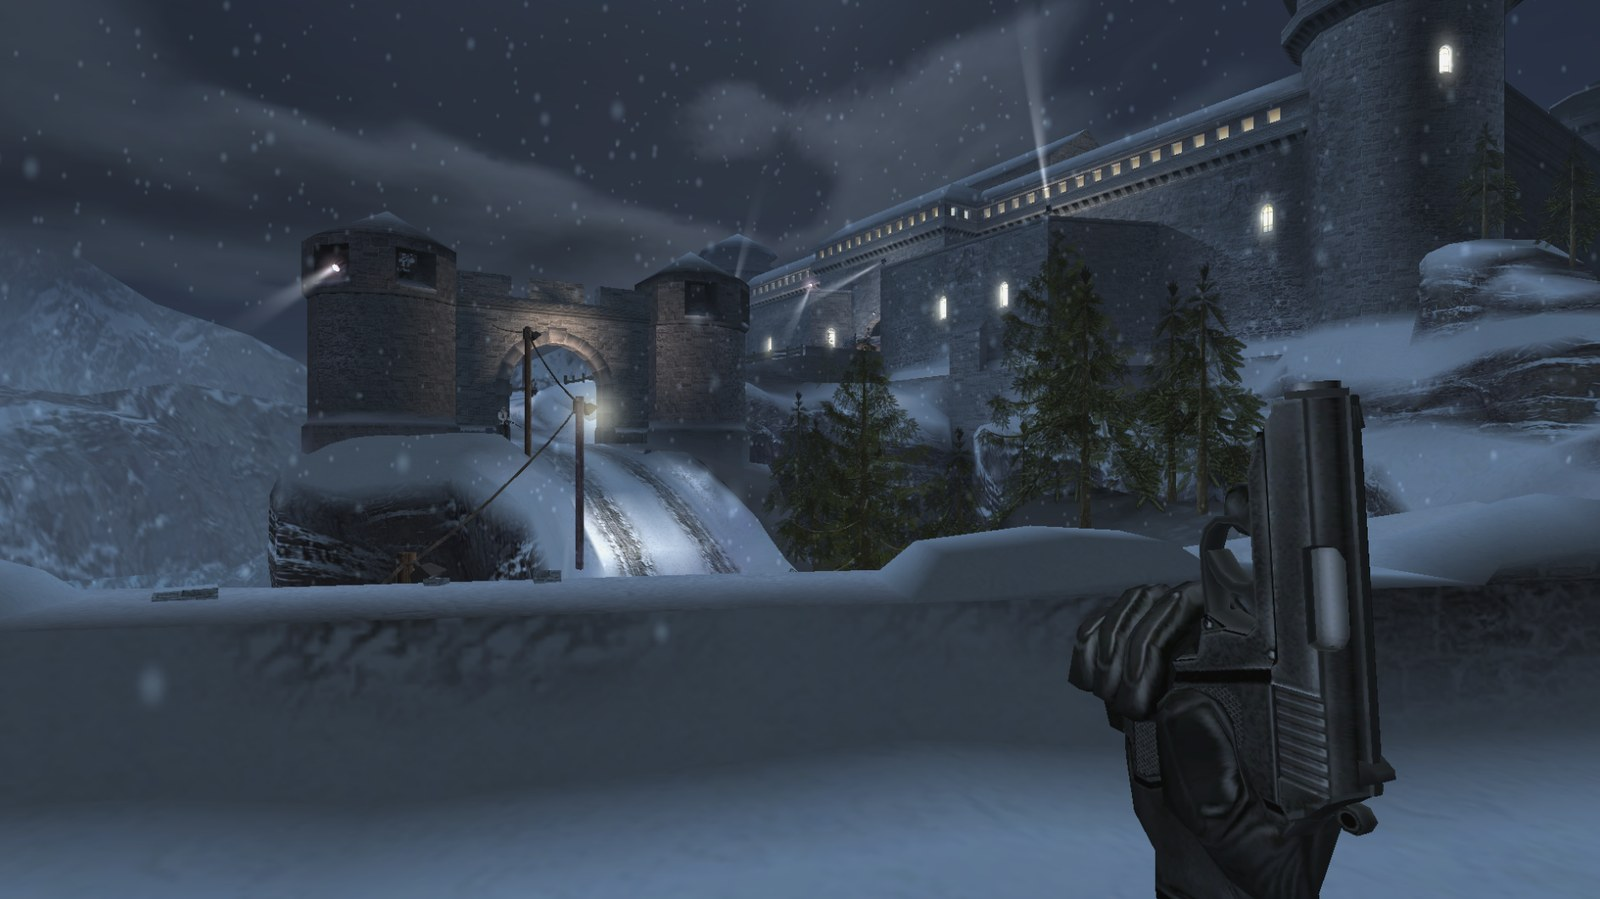
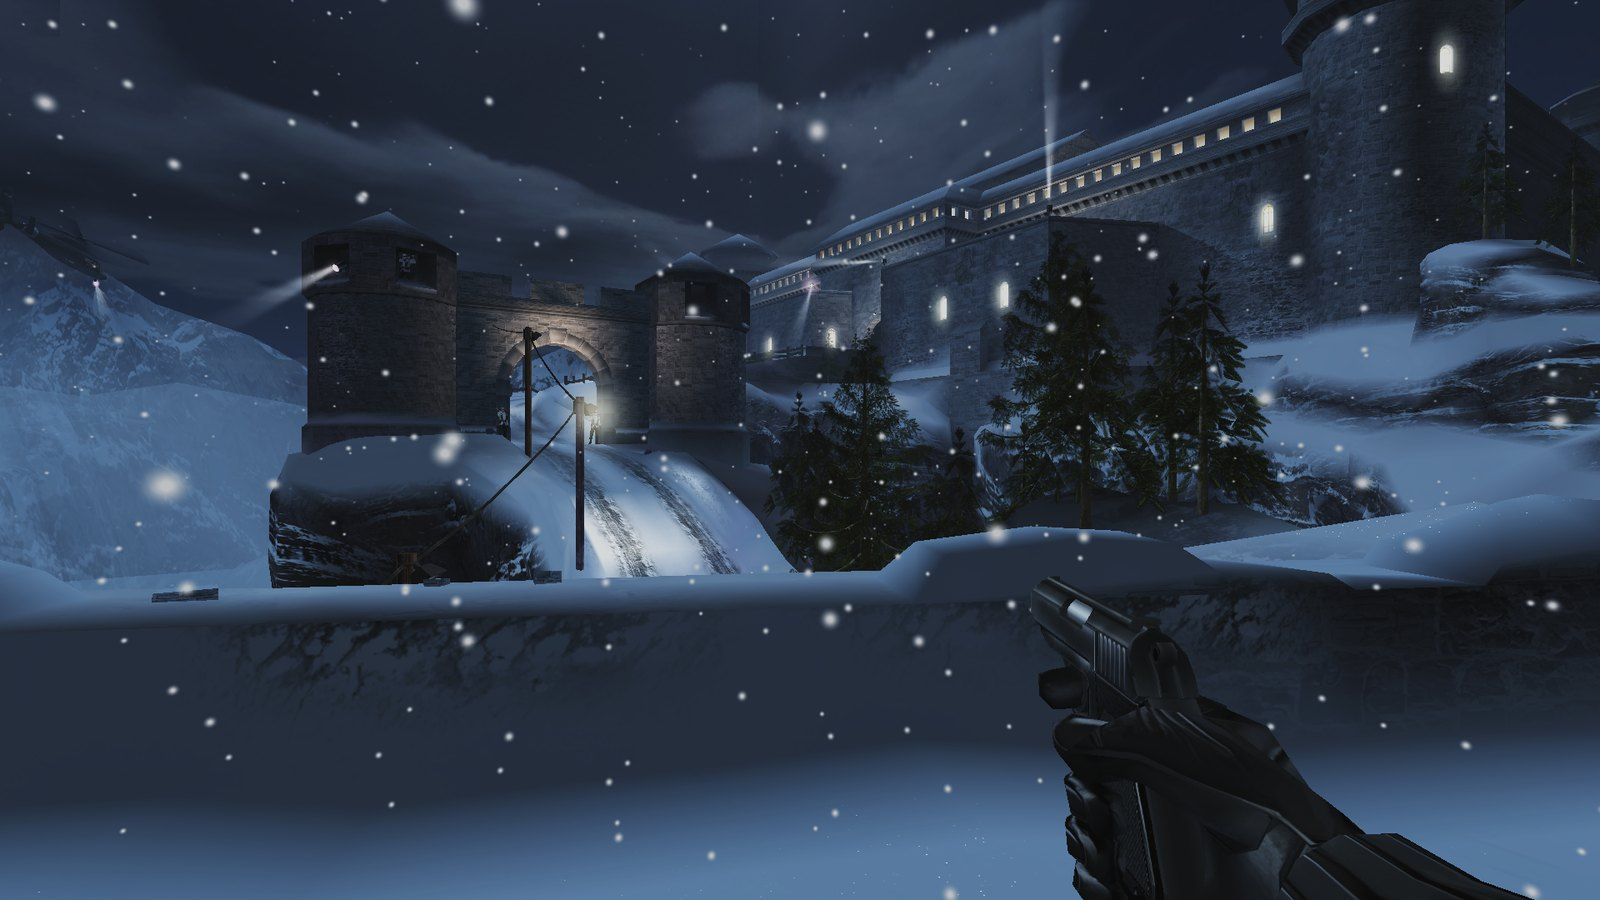
README: new screenshots, indoor level and co-op
Outdoor (The Exchange) and indoor (garage) Original/Remastered comparisons,
a split-screen co-op picture, and story co-op in the feature list.

diff --git a/README.md b/README.md
@@ -14,10 +14,19 @@ packs, LAN multiplayer and more PC controls, all chosen in the game's own menus.
 Noir. Same build; only the Graphics menu changed.*
 
 <table>
-<tr><th>Original (no visual changes)</th><th>Remastered (Enhanced style, ray traced lighting and effects)</th></tr>
-<tr><td><img src="docs/images/exchange_original.jpg" alt="Original"></td>
-<td><img src="docs/images/exchange_remastered.jpg" alt="Remastered"></td></tr>
+<tr><th>Original (no visual changes)</th><th>Remastered (Enhanced style, ray traced lighting, HDR tone mapping)</th></tr>
+<tr><td><img src="docs/images/exchange_original.jpg" alt="The Exchange, Original"></td>
+<td><img src="docs/images/exchange_remastered.jpg" alt="The Exchange, Remastered"></td></tr>
+<tr><td><img src="docs/images/garage_original.jpg" alt="Indoor garage, Original"></td>
+<td><img src="docs/images/garage_remastered.jpg" alt="Indoor garage, Remastered"></td></tr>
 </table>
+
+*Outdoors (The Exchange, at night in falling snow) and indoors (a garage level), from where each mission starts.*
+
+![Split-screen story co-op in The Exchange](docs/images/coop_split.jpg)
+
+*Story co-op in split screen: player 2 (on the second controller) in player 1's view, with the multiplayer's
+animations and a gun in hand.*
 
 > [!NOTE]
 > Like the original project, this fork contains **no game files**, and no textures made from them. You build and play
@@ -69,6 +78,8 @@ Noir. Same build; only the Graphics menu changed.*
 - **LAN play** over the network (Netplay in the main menu): host or join games found on your network, with a lobby,
   names and teams. The host's AI bots play in network games, players can join mid-match, and a bot takes a leaver's place.
 - "Keyboard alone": in split screen the keyboard and mouse play as a player of their own.
+- **Story co-op:** play the missions with a second player, split screen or over the network (Co-op in Select
+  Difficulty): friendly fire on or off, keep together, player 2 respawns, and the usual saves and unlocks.
 
 **Menus**
 - **Graphics**, **Effects**, **Style Options**, **More Settings**, **Netplay** and **Key Bindings** pages, drawn in

diff --git a/PROGRESS.md b/PROGRESS.md
@@ -31,6 +31,13 @@ Newest first. Each entry: date, what changed, what was learned, what's next.
 
 ## Log
 
+### 2026-11-07 - README pictures
+
+- New README screenshots (1600x900 jpg, HUD hidden, fps counter covered): The Exchange and the indoor garage level
+  (07000027), each Original and Remastered (the Enhanced look with ray tracing, GI, volumetric and ACES with auto
+  exposure), and split-screen story co-op in The Exchange. Story co-op added to the README's feature list.
+- Taken with `.local/vk/readme_shots.sh <level> <tag>` and `readme_coop.sh` (settings in `.local/vk/remaster.toml`).
+
 ### 2026-11-07 - Bug sweep
 
 - Single player (The Exchange, every effect): no error, failed shader or trap in the log. Split screen co-op: no errors,
